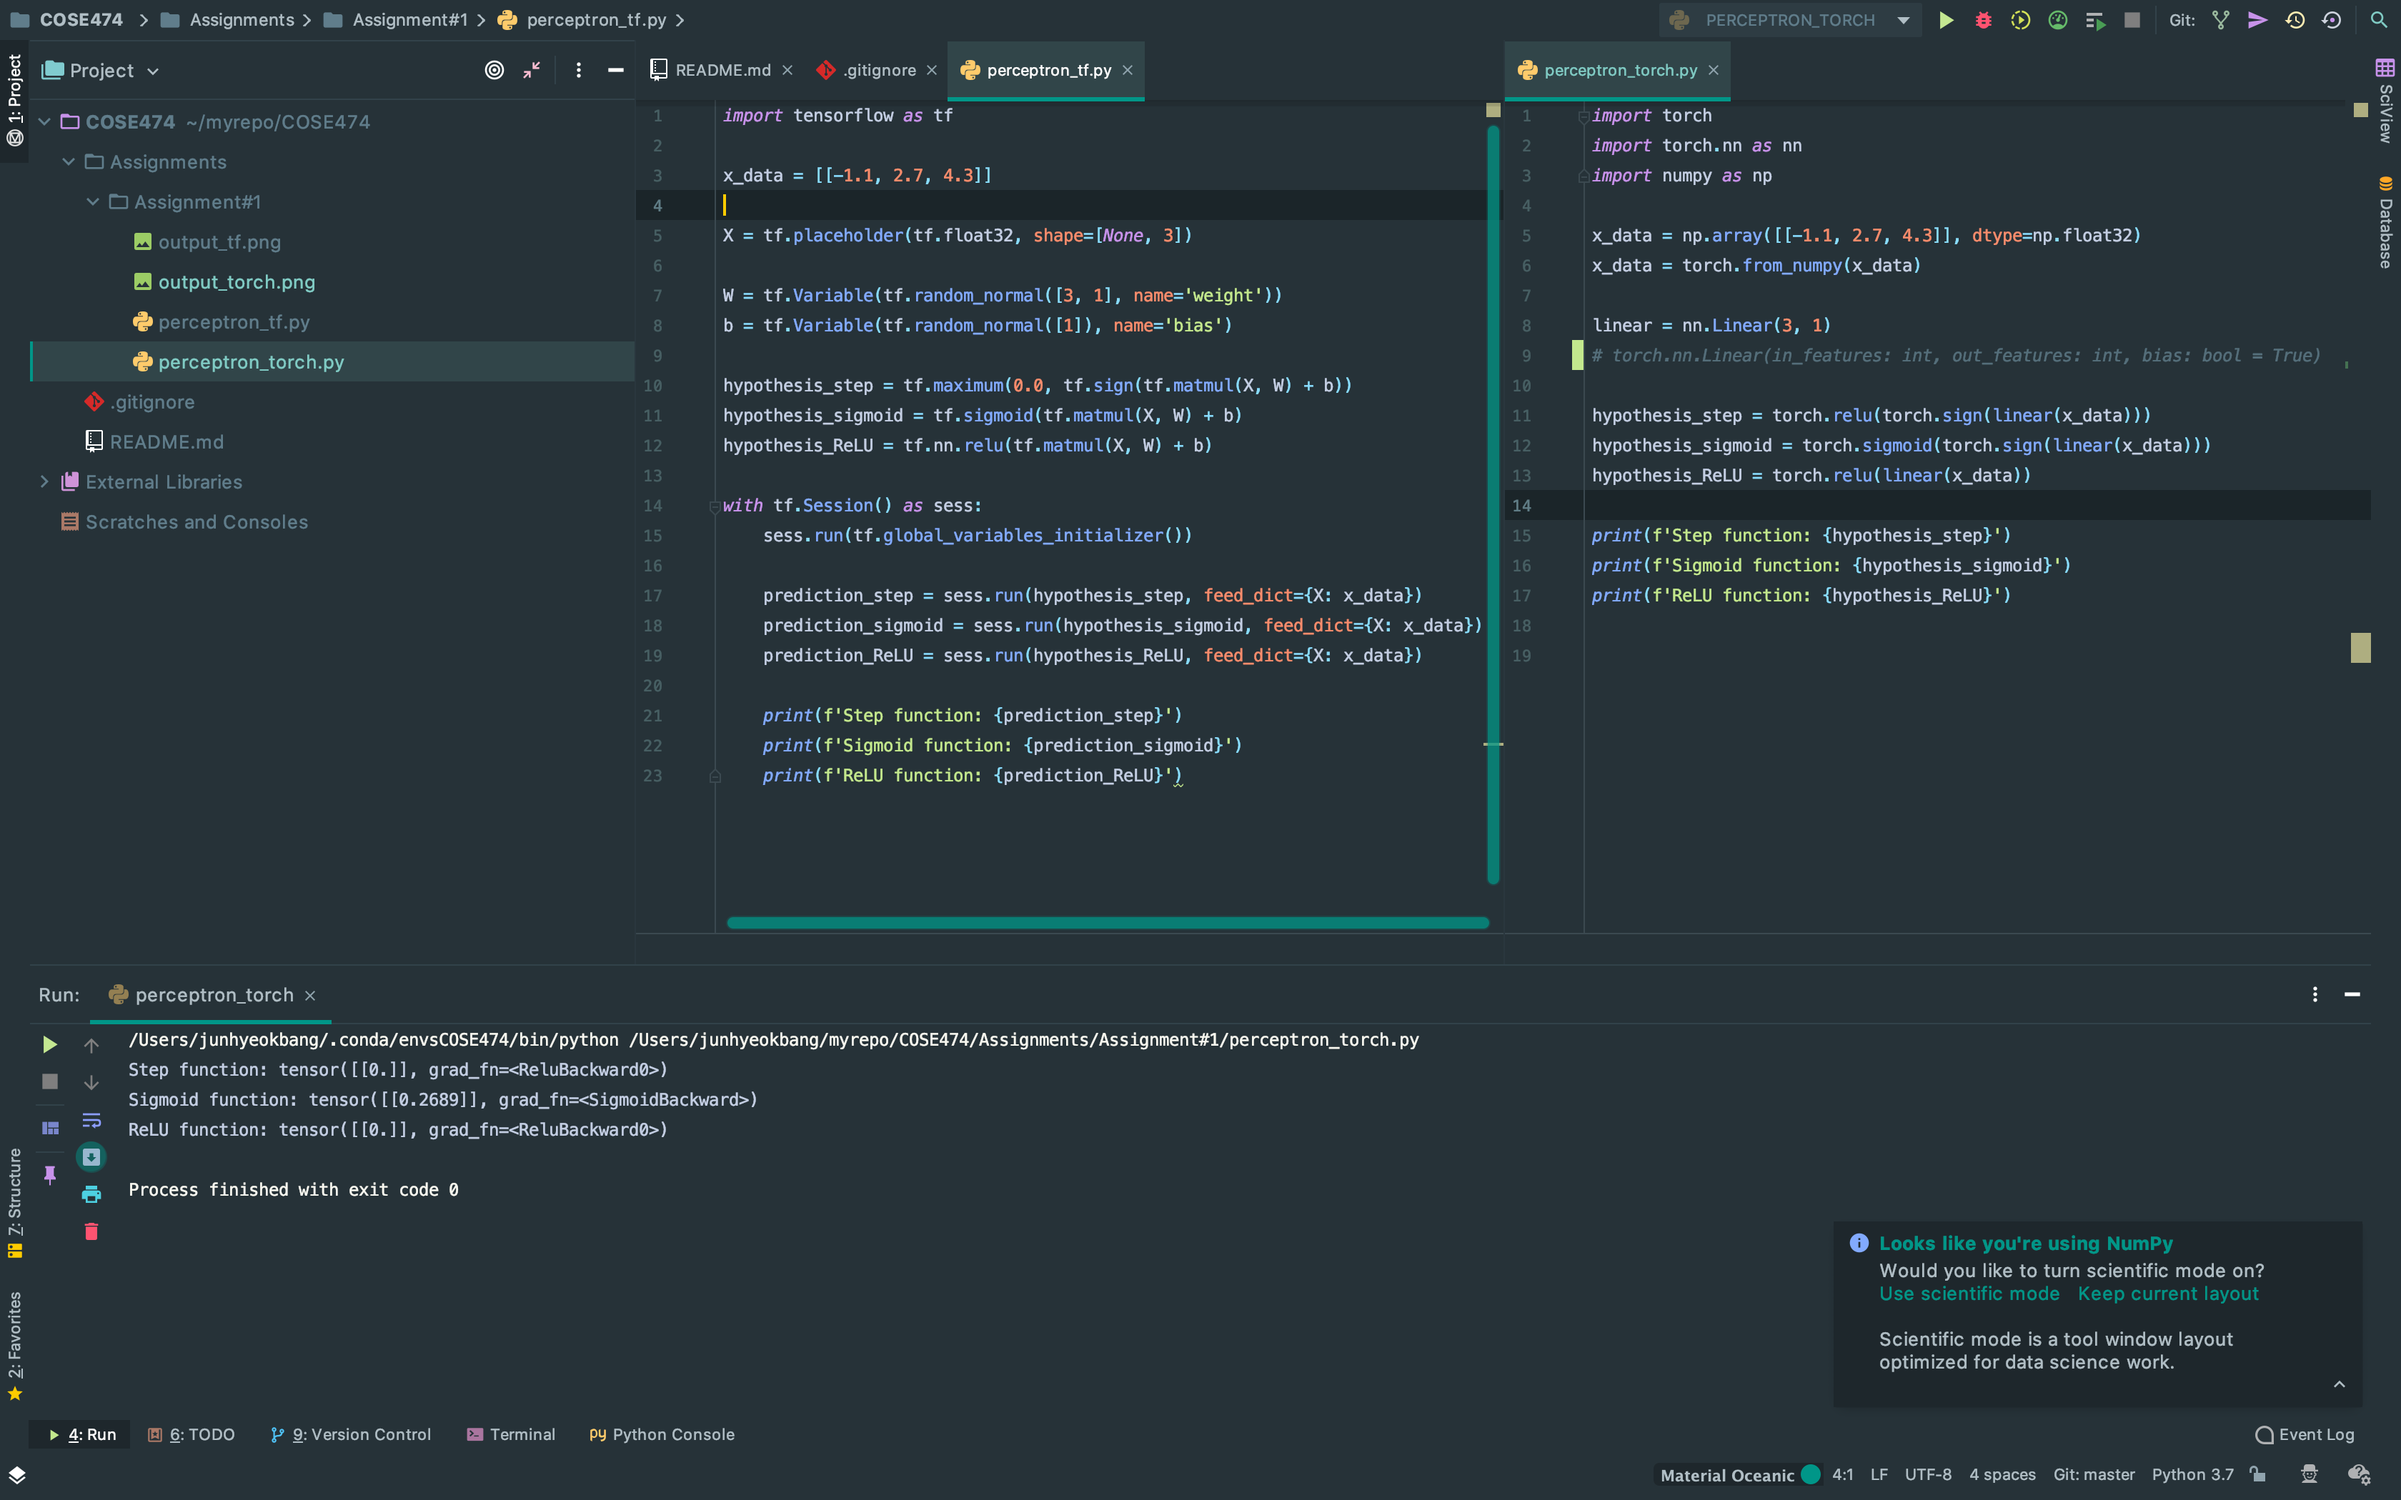
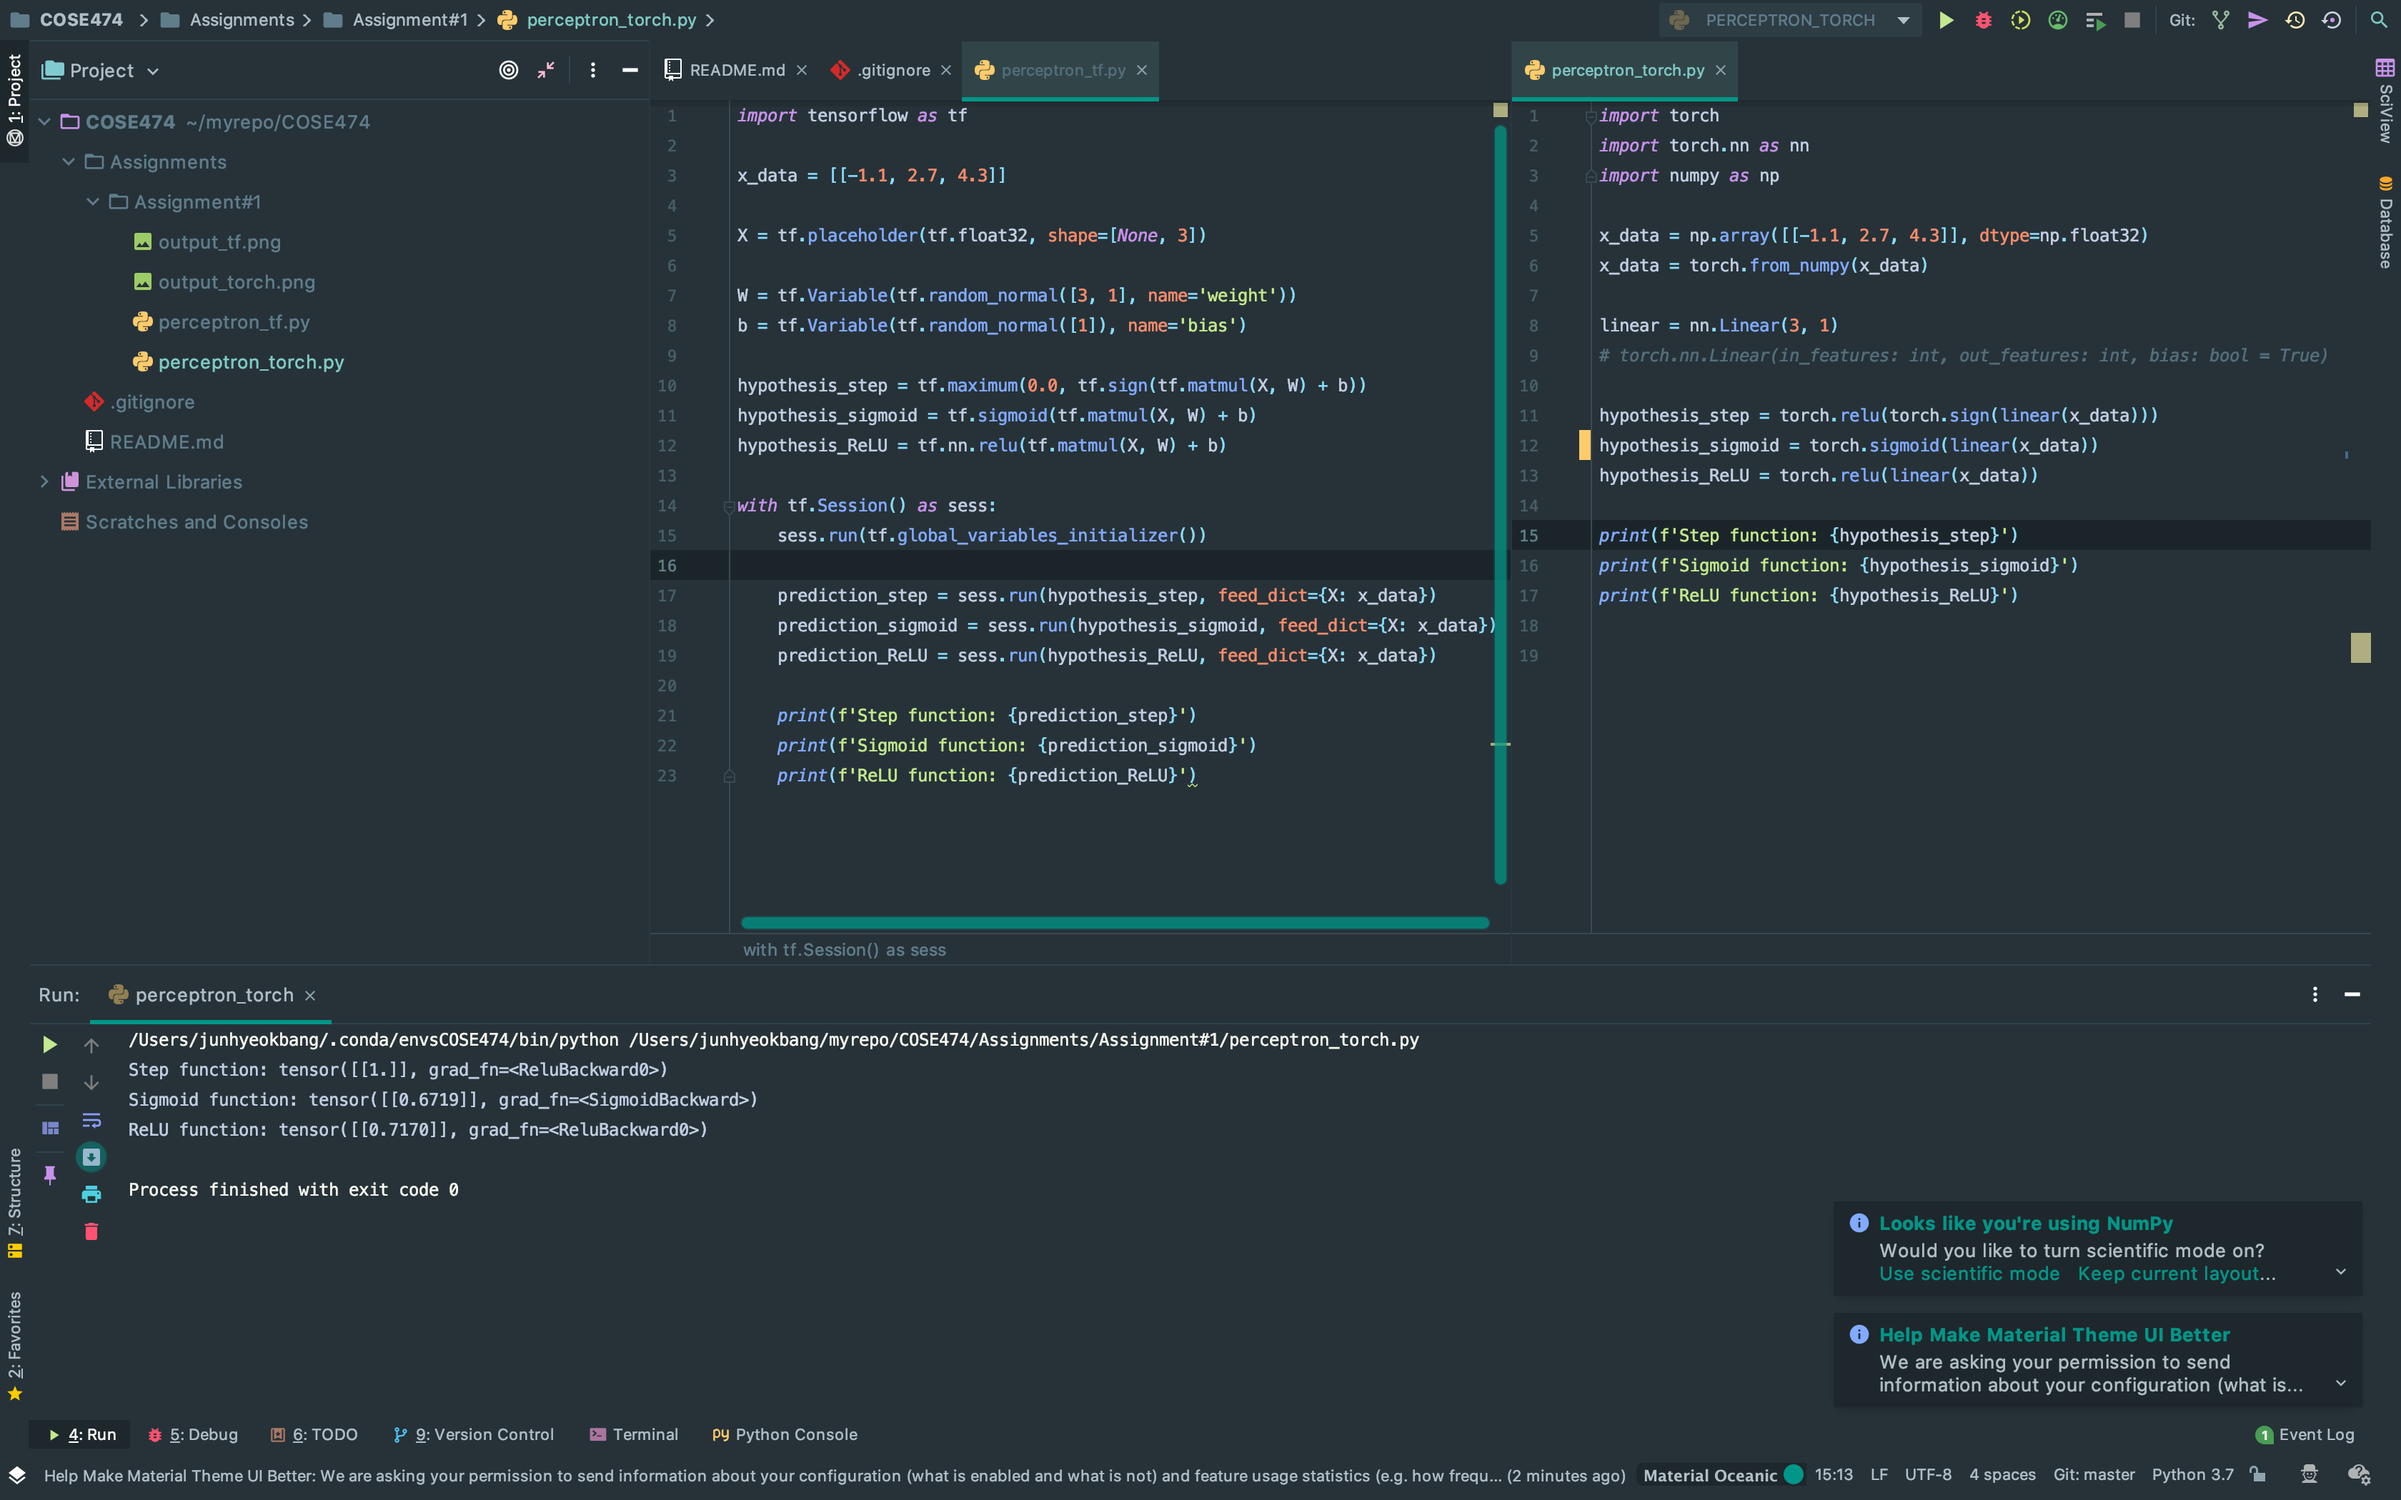
fix a typo

diff --git a/Assignments/Assignment#1/perceptron_torch.py b/Assignments/Assignment#1/perceptron_torch.py
@@ -9,7 +9,7 @@ linear = nn.Linear(3, 1)
 # torch.nn.Linear(in_features: int, out_features: int, bias: bool = True)
 
 hypothesis_step = torch.relu(torch.sign(linear(x_data)))
-hypothesis_sigmoid = torch.sigmoid(torch.sign(linear(x_data)))
+hypothesis_sigmoid = torch.sigmoid(linear(x_data))
 hypothesis_ReLU = torch.relu(linear(x_data))
 
 print(f'Step function: {hypothesis_step}')
